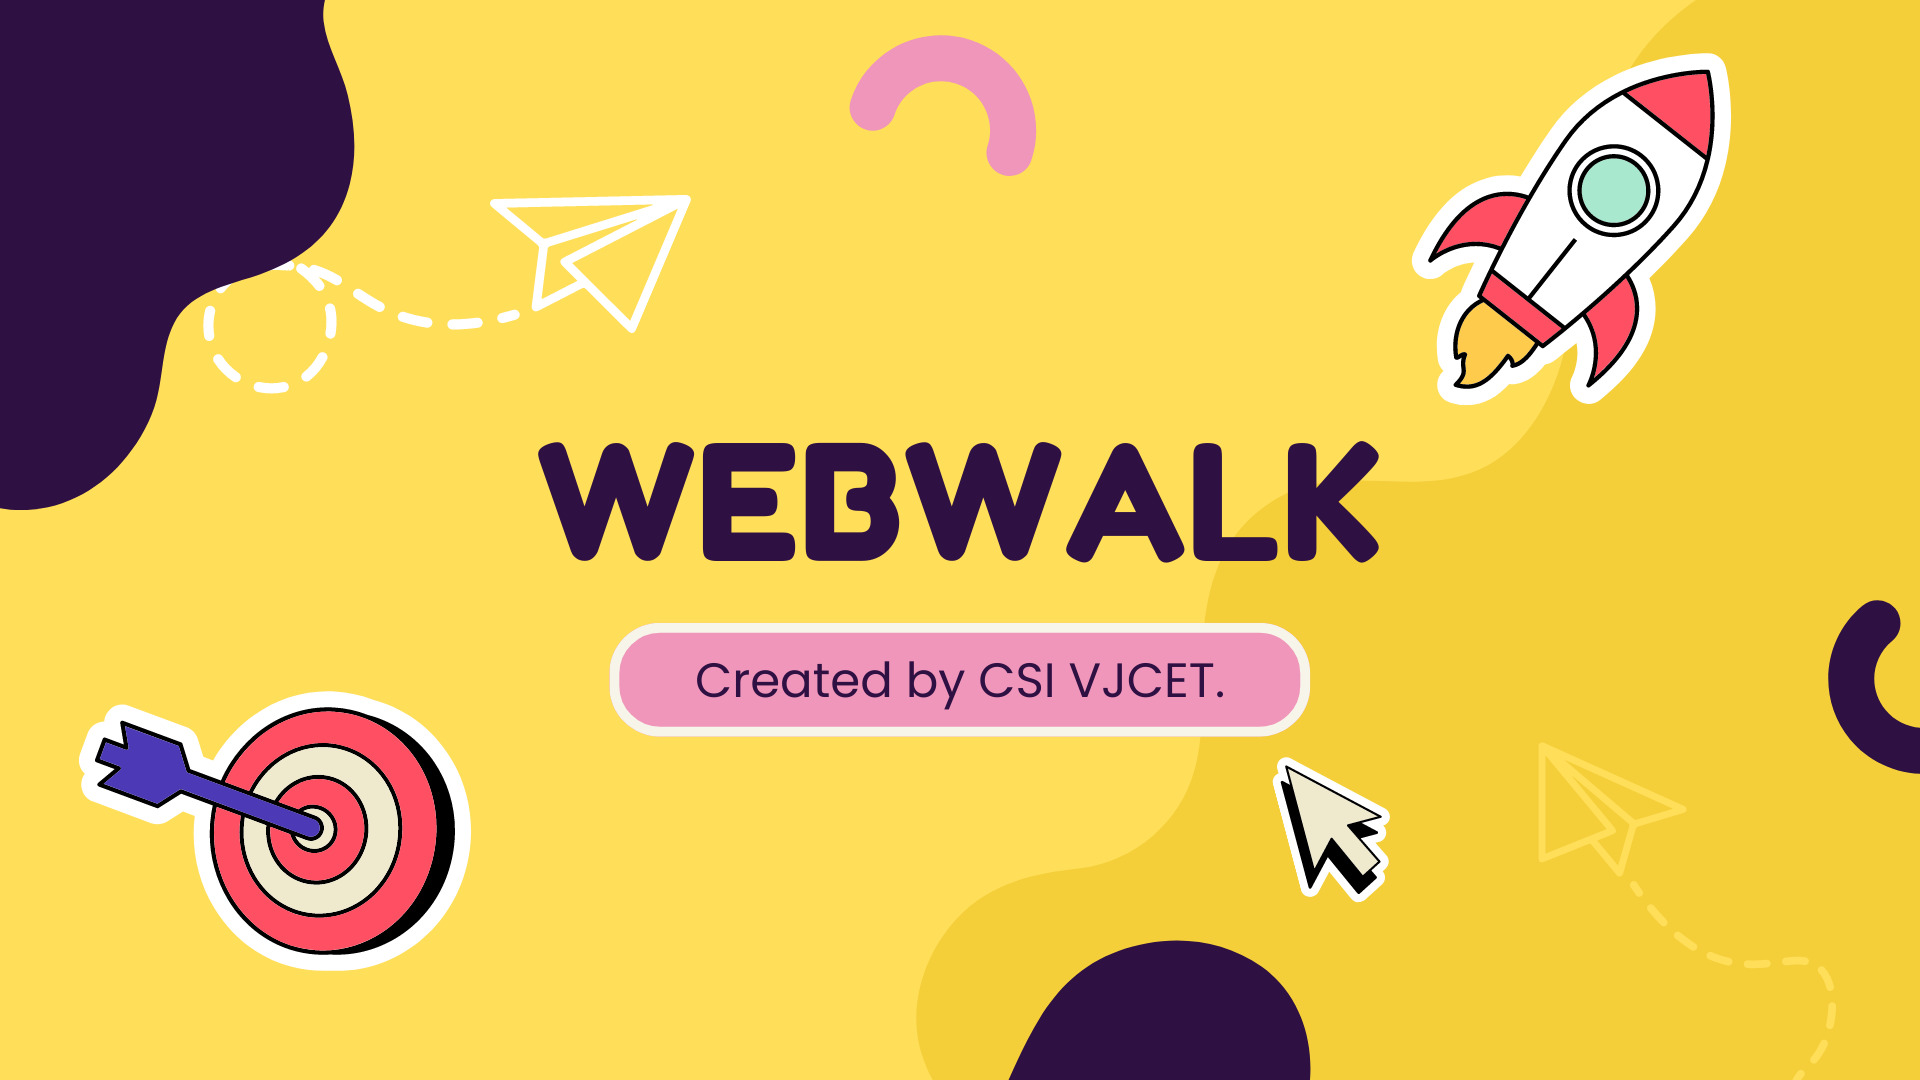
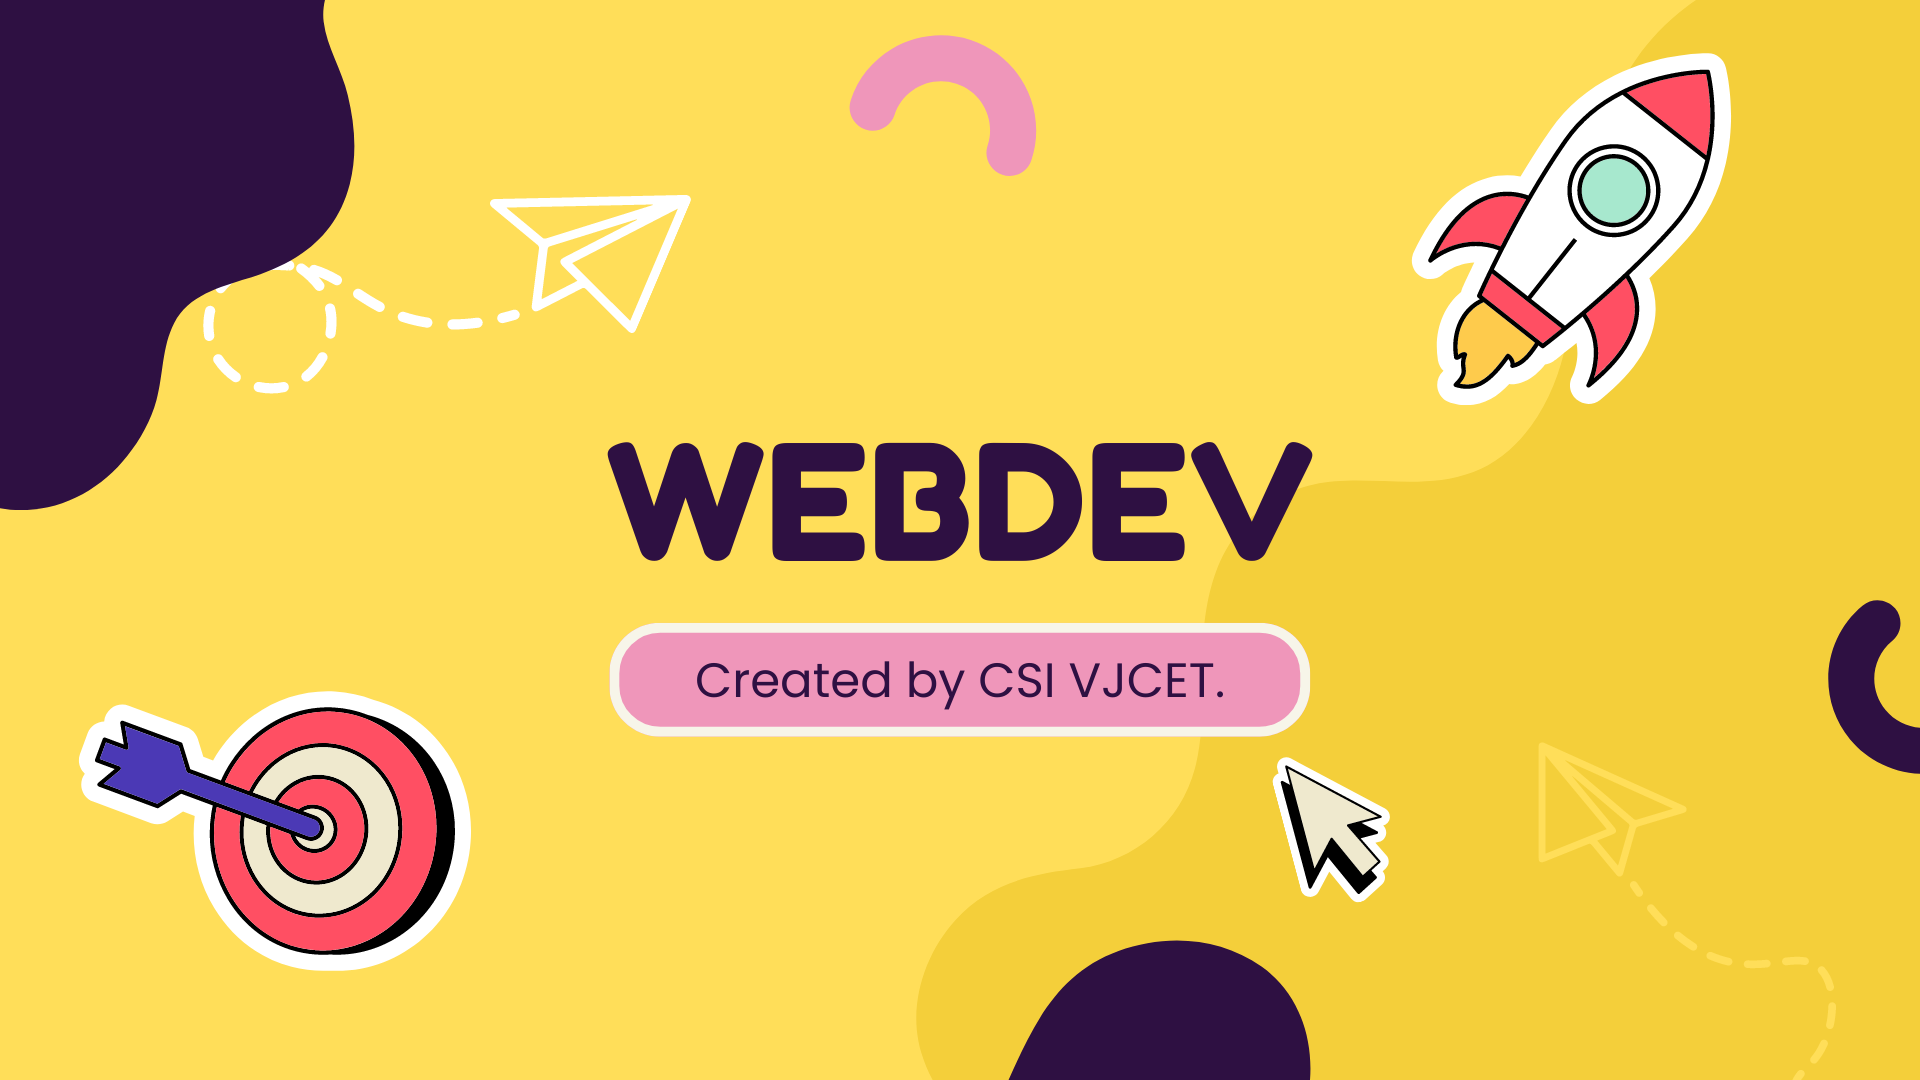
n

Changed region(s): [[0.2812, 0.3972, 0.7188, 0.5194]]

diff --git a/web.html b/web.html
@@ -4,13 +4,13 @@
     <meta charset="UTF-8">
     <meta http-equiv="X-UA-Compatible" content="IE=edge">
     <meta name="viewport" content="widthdevice-width, initial-scale=1.0">
-    <title>exampe</title>
+    <title>WebDev</title>
     <link rel="stylesheet" href="style.css">
 </head>
 <body>
     <!--the first section is the navigation bar which contains the website logo and other main links-->
     <section class="nav">
-        <div class="logo"><h1>Webwalk</h1></div>
+        <div class="logo"><h1>WebDev</h1></div>
         <div class="nav-left">
            <a href="#home">Home</a>
            <a href="#cards">Cards</a>
@@ -29,21 +29,21 @@
     <!-- lets create some cards :) -->
      
     <section id="cards" class="cards_space">
-        <h3>lets learn about cards</h3>
+        <h3>The Learning Procedure</h3>
         <div class="cards">
             <div>
                 <img class="card_img" src="/images/undraw_traveling_re_s0cf.svg    " alt="">
                 <br>
-                <h4>Lets go for a Trip</h4>
+                <h4>01 Learn</h4>
                 <br>
-                <p>Lorem ipsum dolor sit amet consectetur, adipisicing elit. Exercitationem, recusandae!</p>
+                <p>here goes the first step <br> Learn the concepts of web,<br> its really easy!</p>
             </div>
             <div>
                 <img id="halloween" class="card_img" src="/images/undraw_halloween_re_2kq1.svg" alt="">
                 <br>
-                <h4>Lets celebrate halloween</h4>
+                <h4>02 Understand</h4>
                 <br>
-                <p>Lorem ipsum dolor sit amet consectetur, adipisicing elit. Exercitationem, recusandae!</p>
+                <p>Just as Usual <br>second step is to understand <br>  the concepts !</p>
             </div>
             <div>
                 <!-- copy the content of above div-->
@@ -52,45 +52,54 @@
                 -->
                 <img id="halloween" class="card_img" src="/images/undraw_game_world_re_e44j.svg" alt="">
                 <br>
-                <h4>Lets celebrate halloween</h4>
+                <h4>03 Code</h4>
                 <br>
-                <p>Lorem ipsum dolor sit amet consectetur, adipisicing elit. Exercitationem, recusandae!</p>
+                <p>Finally Lets make it into <br> code!</p>
             </div>
 
         </div>
         
 
      </section>
+    <!-- Tryout Area -->
+
+    <section class="tryout">
+        
+        <h1>Lets Try out</h1>
+
+
+
+
+
+
+
+
+
+
+
+
+
+
+
+
+        
+
+    </section>
+    <!--lol dont stop!!! just create as much sections as you need... explore the process dude..-->
     
-
-    <section class="main">
-        <br><!--lets get a line break just for boootification....-->
-
-        <!--h4 stands for the default heading of size 4th as of a heading text it can from h1 to h6-->
-        <h4>Website main part</h4>
-
-        <br><!--again lets take a break-->
-
-        <p>this is a <strike>paragraph</strike> single line </p>
-        <br><!--and again :) -->
-
-        <p>Lorem ipsum dolor sit amert <strong>its strong </strong> consectetur adipisicing elit. Itaque vitae omnis qui consequatur reprehenderit nobis! Obcaecati error aliquam temporibus ipsum nemo rem consequuntur voluptate ratione quaerat pariatur quia, itaque unde!</p>
-    
-        <!--a div is a division or a collection of certain elements.. its a small group-->
+    <section>
         <div class="inside-div">
             <h3>hey there is a way</h3>
             <br>
             <h4>lets connect!</h4>
             <br><br>
             <!--this is how you can include a link to other page or to some divs or sections in the same page-->
-            <a id="connect" href="" >message me</a>
-
+            <a id="connect" href="https://www.instagram.com/csivjcet/" >message me</a>
+    
         </div>
-
     </section>
-    <!--lol dont stop!!! just create as much sections as you need... explore the process dude..-->
-    
-    
+    <!--a div is a division or a collection of certain elements.. its a small group-->
+  
     <section class="footer">
         <br>
         <h4>footer of webpage</h4>

diff --git a/style.css b/style.css
@@ -110,16 +110,60 @@ body::-webkit-scrollbar {
     text-align: center;
 }
 
-/* style code for the main section*/
+/* style code for tryout section*/
 
-.main{
+.tryout{
 text-align: center;
-min-height: 70vh;
+min-height: 100vh;
 height: max-content;
 justify-content: center;
 background-color: #fffdfd;
 }
 
+/*your space to style*/
+
+
+
+
+
+
+
+
+
+
+
+
+
+
+
+
+
+
+
+
+
+
+
+
+
+
+
+
+
+
+
+
+
+
+
+
+
+
+
+
+
+
+/*your space to style*/
 .inside-div{
     min-height: 30vh;
     height: auto;
@@ -130,7 +174,7 @@ background-color: #fffdfd;
     border: .3px solid rgb(3, 3, 3);
     border-radius: 5px;
     box-shadow: 10px 10px 8px #eaeaea;;
-    
+    text-align: center;
 }
 
 .inside-div h3{
@@ -147,15 +191,11 @@ background-color: #fffdfd;
     font-size: 10px;
     
 }
-/*your space to style*/
 
-
-
-/*your space to style*/
 .footer{
     min-height: 30vh;
     text-align: center;
-    color: #E0C3FC;
+    color: #ffdf5d;
     background-color: rgb(15, 22, 24);
 }
 
